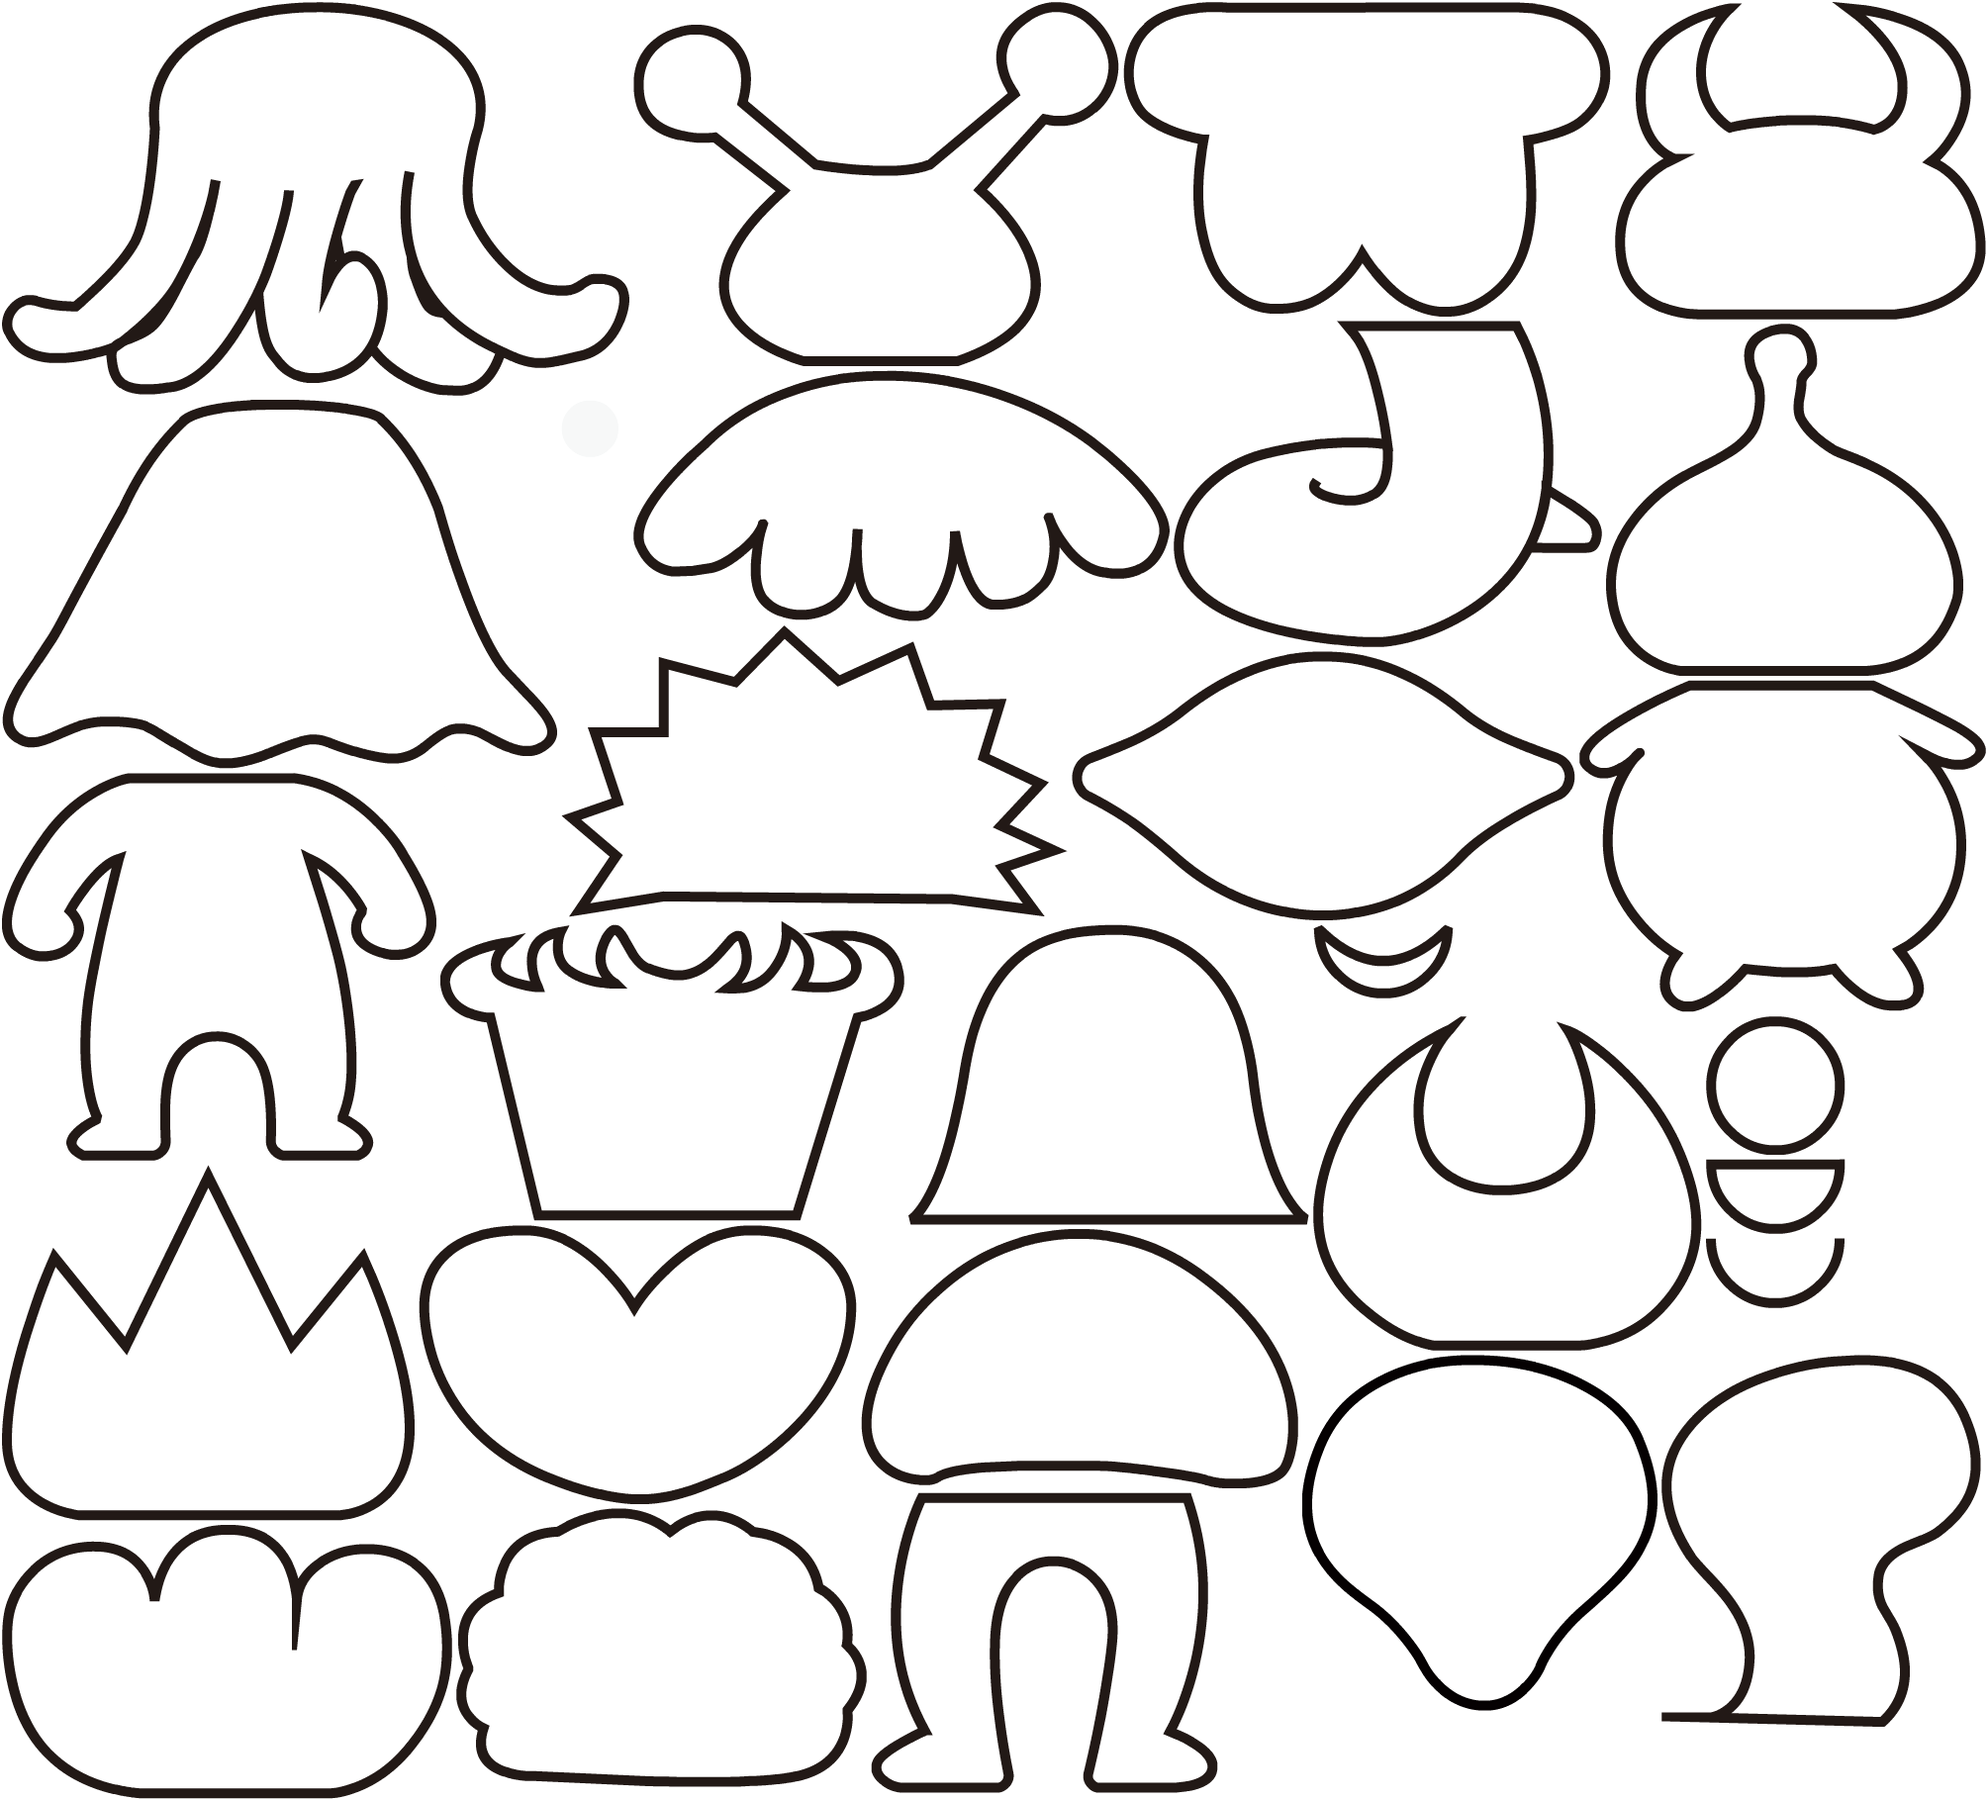
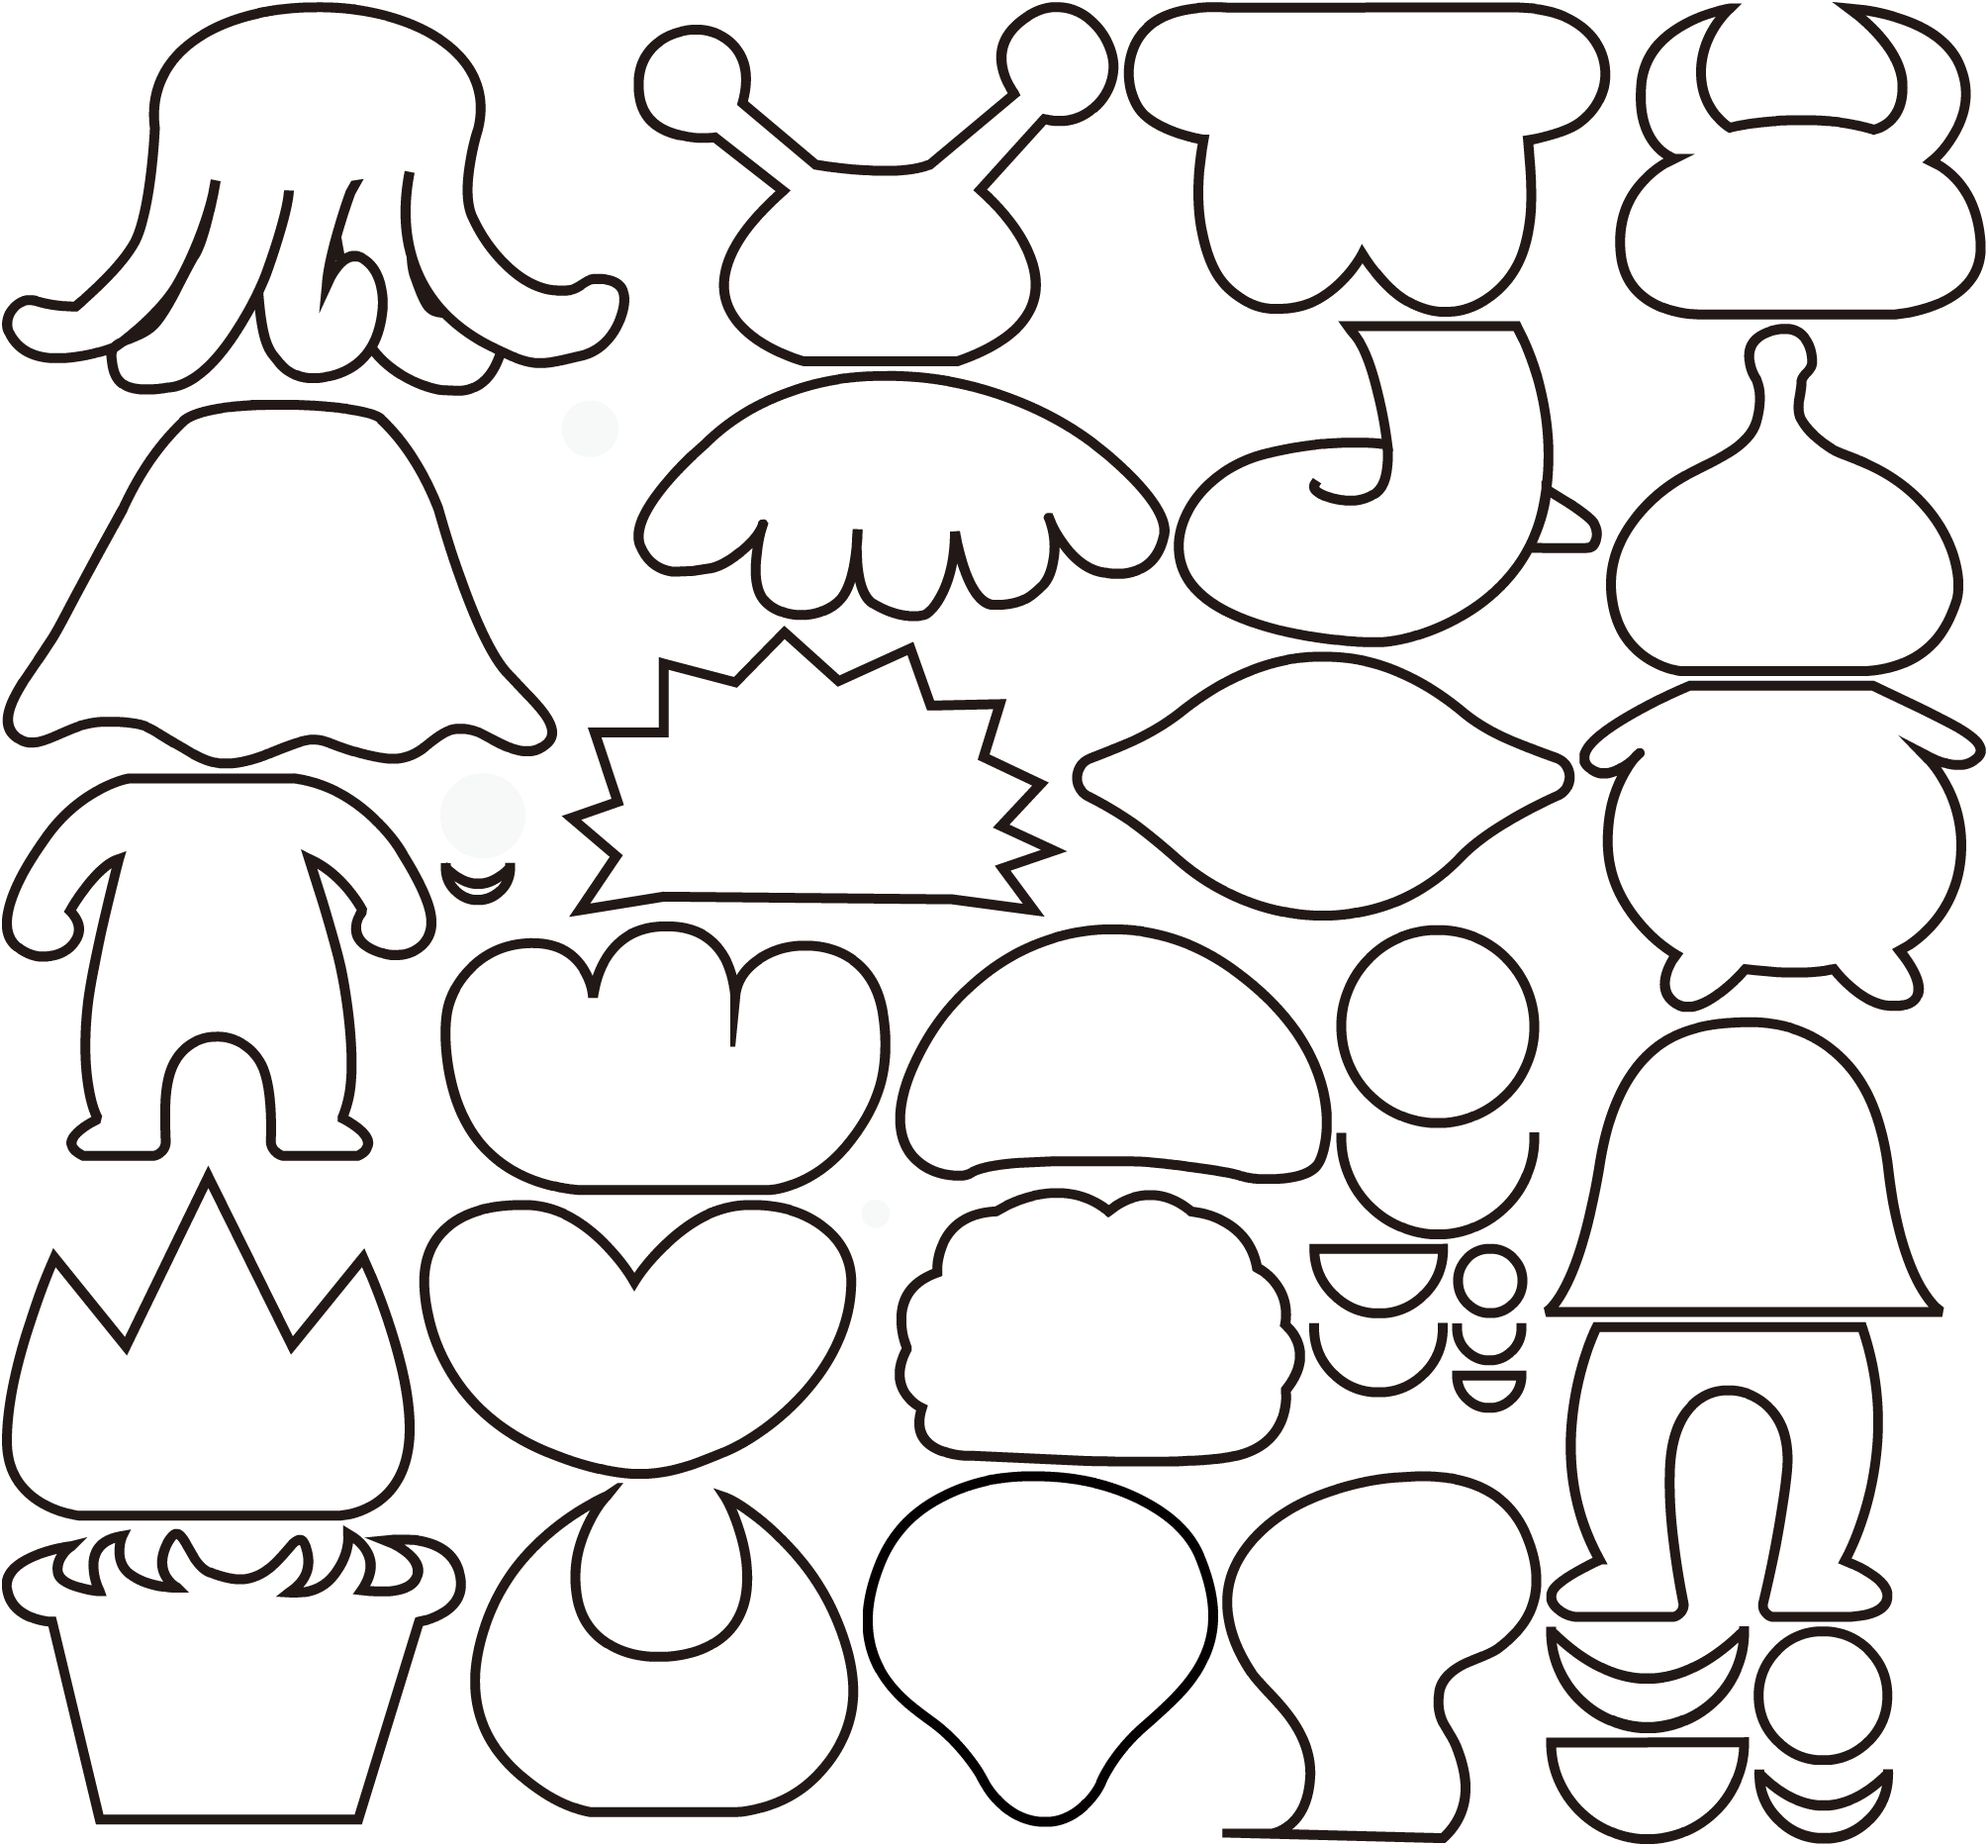
added more eyes

diff --git a/alien.js b/alien.js
@@ -37,15 +37,27 @@ const bodyPartProps = {
   ],
   eyeballs: [
     { anchorX: 0.5, anchorY: 0.5 }, // 0
-    { anchorX: 0.5, anchorY: 0 }, // 1
+    { anchorX: 0.5, anchorY: 0.5 }, // 1
+    { anchorX: 0.5, anchorY: 0.5 }, // 2
+    { anchorX: 0.5, anchorY: 0 }, // 3
+    { anchorX: 0.5, anchorY: 0 }, // 4
+    { anchorX: 0.5, anchorY: 0 }, // 5
   ],
   irises: [
     { anchorX: 0.5, anchorY: 0.5 }, // 0
-    { anchorX: 0.5, anchorY: -0.35 }, // 1
+    { anchorX: 0.5, anchorY: 0.5 }, // 1
+    { anchorX: 0.5, anchorY: 0.5 }, // 2
+    { anchorX: 0.5, anchorY: -0.2 }, // 3
+    { anchorX: 0.5, anchorY: -0.33 }, // 4
+    { anchorX: 0.5, anchorY: -0.6 }, // 5
   ],
   eyesClosed: [
-    { anchorX: 0.5, anchorY: 0 }, // 0
-    { anchorX: 0.5, anchorY: 0 }, // 1
+    { anchorX: 0.5, anchorY: 0.15 }, // 0
+    { anchorX: 0.5, anchorY: 0.075 }, // 1
+    { anchorX: 0.5, anchorY: 0.06 }, // 2
+    { anchorX: 0.5, anchorY: 0 }, // 3
+    { anchorX: 0.5, anchorY: 0 }, // 4
+    { anchorX: 0.5, anchorY: 0 }, // 5
   ],
 }
 
